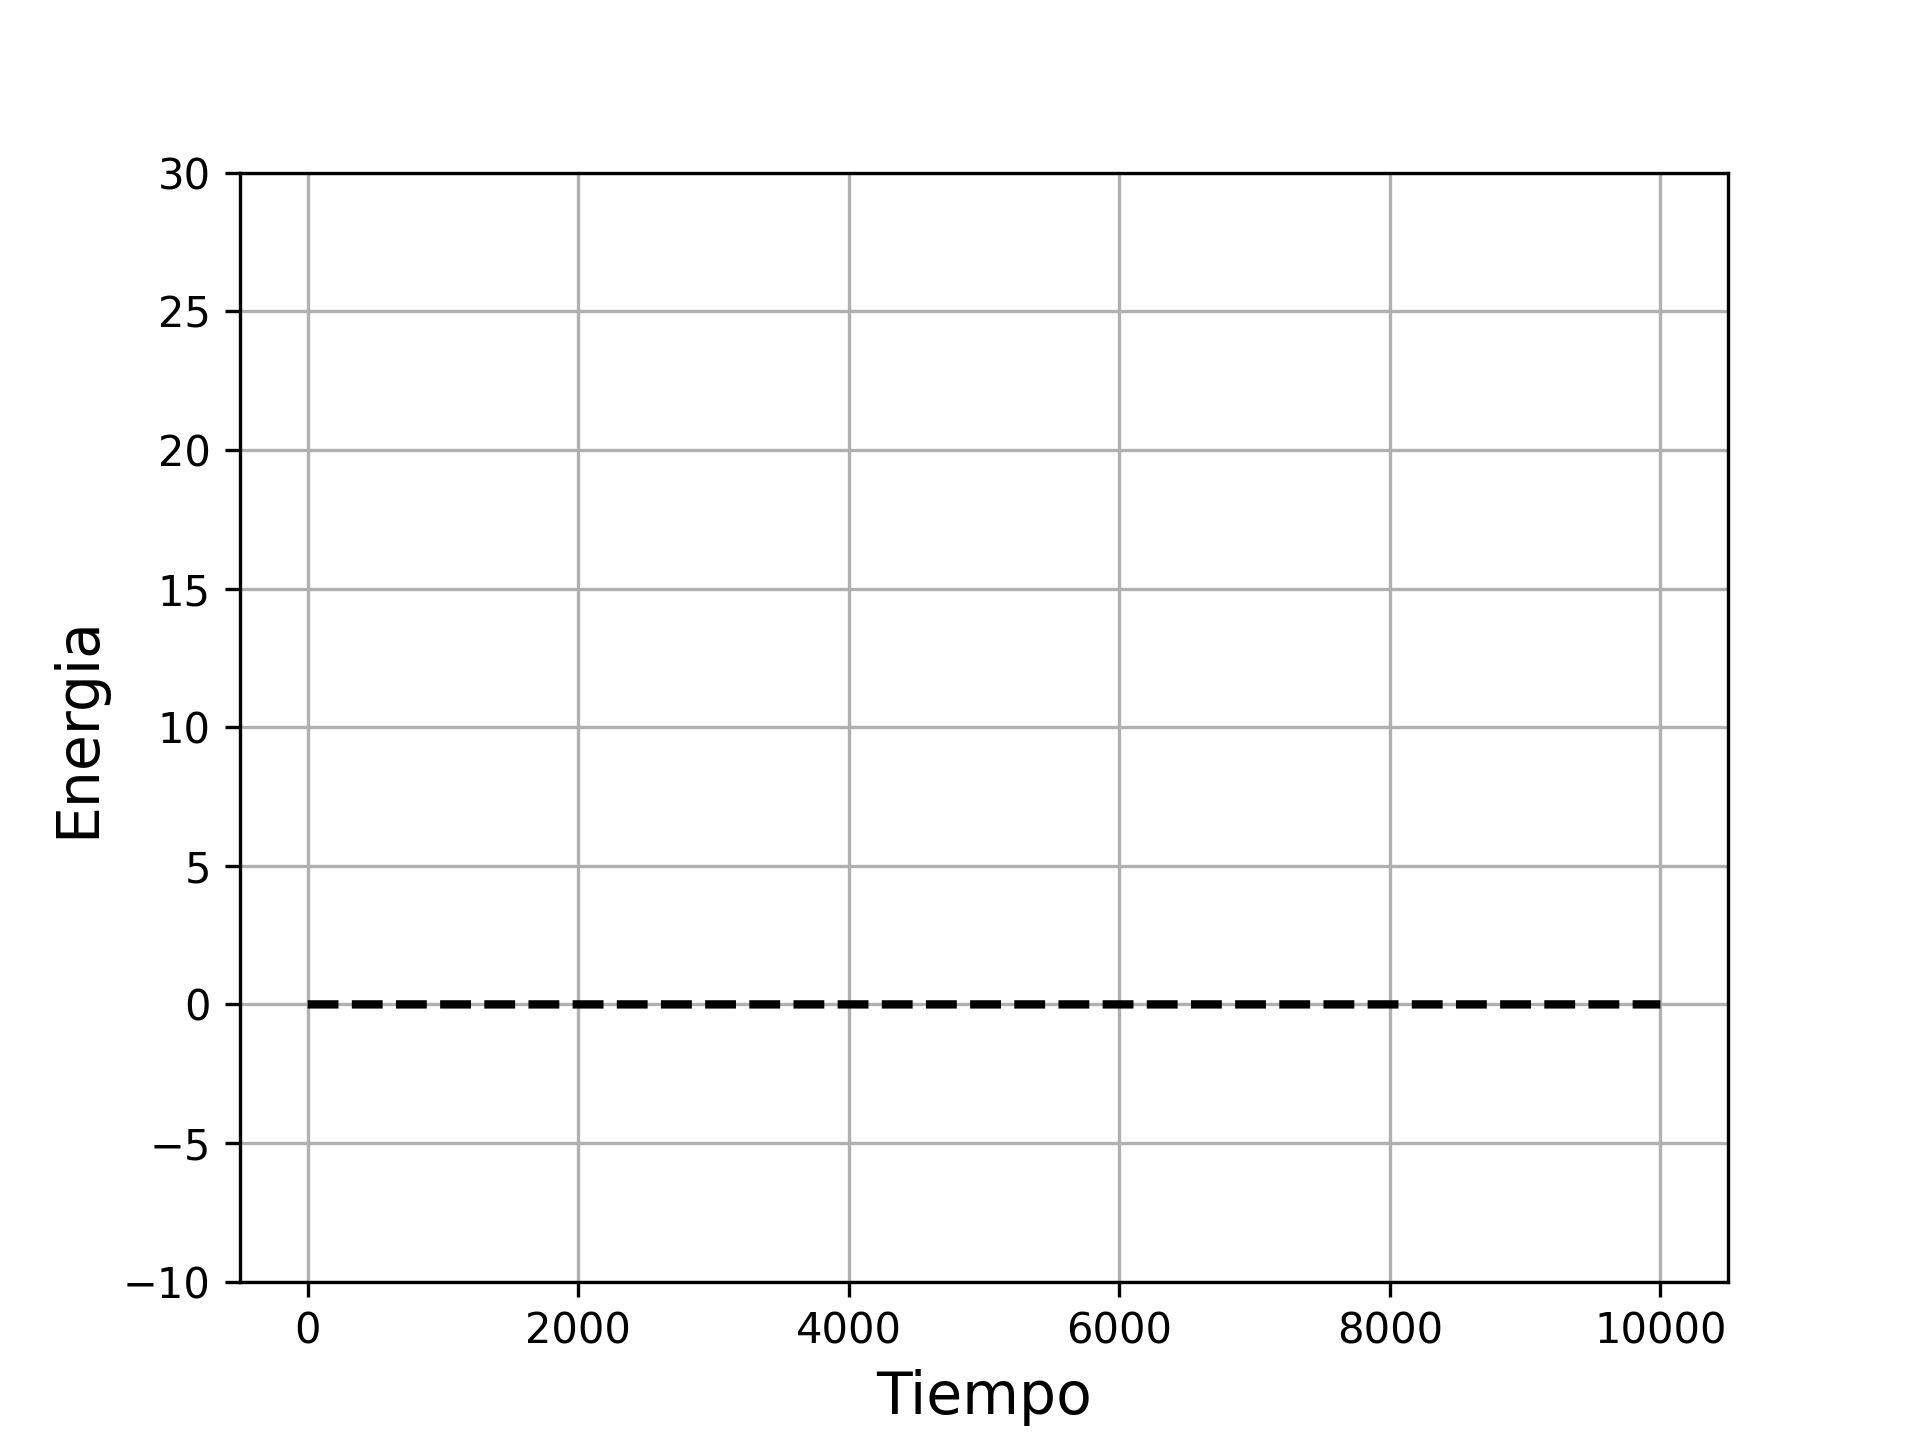
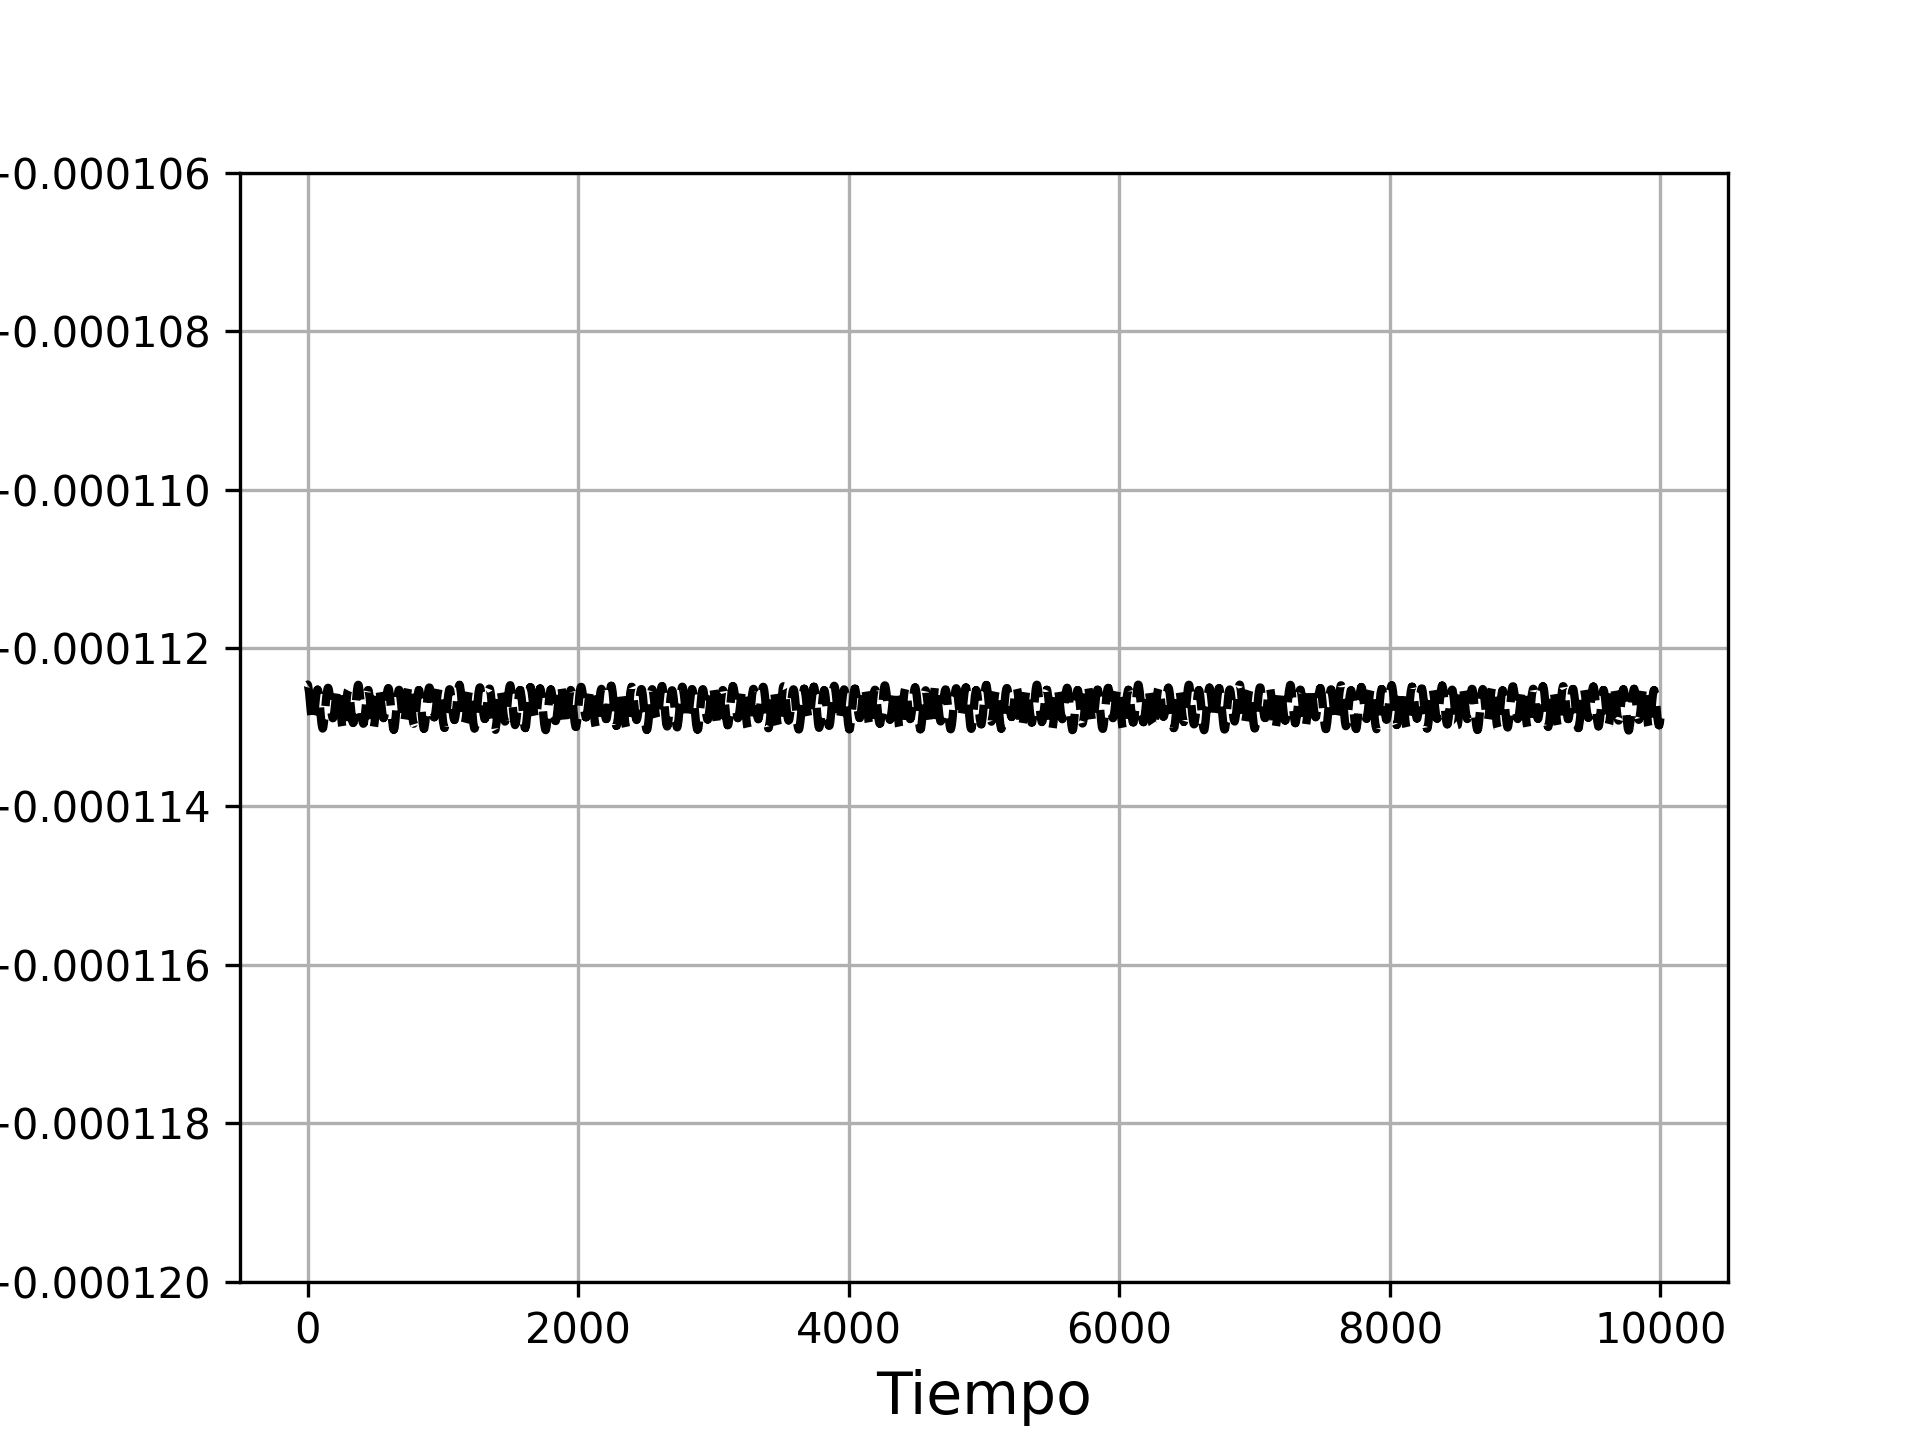
final

diff --git a/obligatorio1/animacion_planetas.py b/obligatorio1/animacion_planetas.py
@@ -59,7 +59,7 @@ y_max = 50
 interval = 1 # Tiempo entre fotogramas en milisegundos
 show_trail = True # Muestra la "estela" del planeta
 trail_width = 1 # Ancho de la estela
-save_to_file = False # False: muestra la animación por pantalla,
+save_to_file = True # False: muestra la animación por pantalla,
                      # True: la guarda en un fichero
 dpi = 150 # Calidad del vídeo de salida (dots per inch)
 
@@ -182,7 +182,7 @@ if nframes > 1:
 
     # Muestra por pantalla o guarda según parámetros
     if save_to_file:
-        animation.save("{}.mp4".format(file_out), dpi=dpi)
+        animation.save("planetas.mp4".format(file_out), dpi=dpi)
     else:
         plt.show()
 # En caso contrario, muestra o guarda una imagen

diff --git a/obligatorio1/energia.py b/obligatorio1/energia.py
@@ -15,8 +15,8 @@ ax=fig.add_subplot(111)
 ax.grid(True)
 
 
-y_min = -10
-y_max = 30
+y_min = -0.000120
+y_max = -0.000106
 
 ax.set_ylim(y_min, y_max)
 
